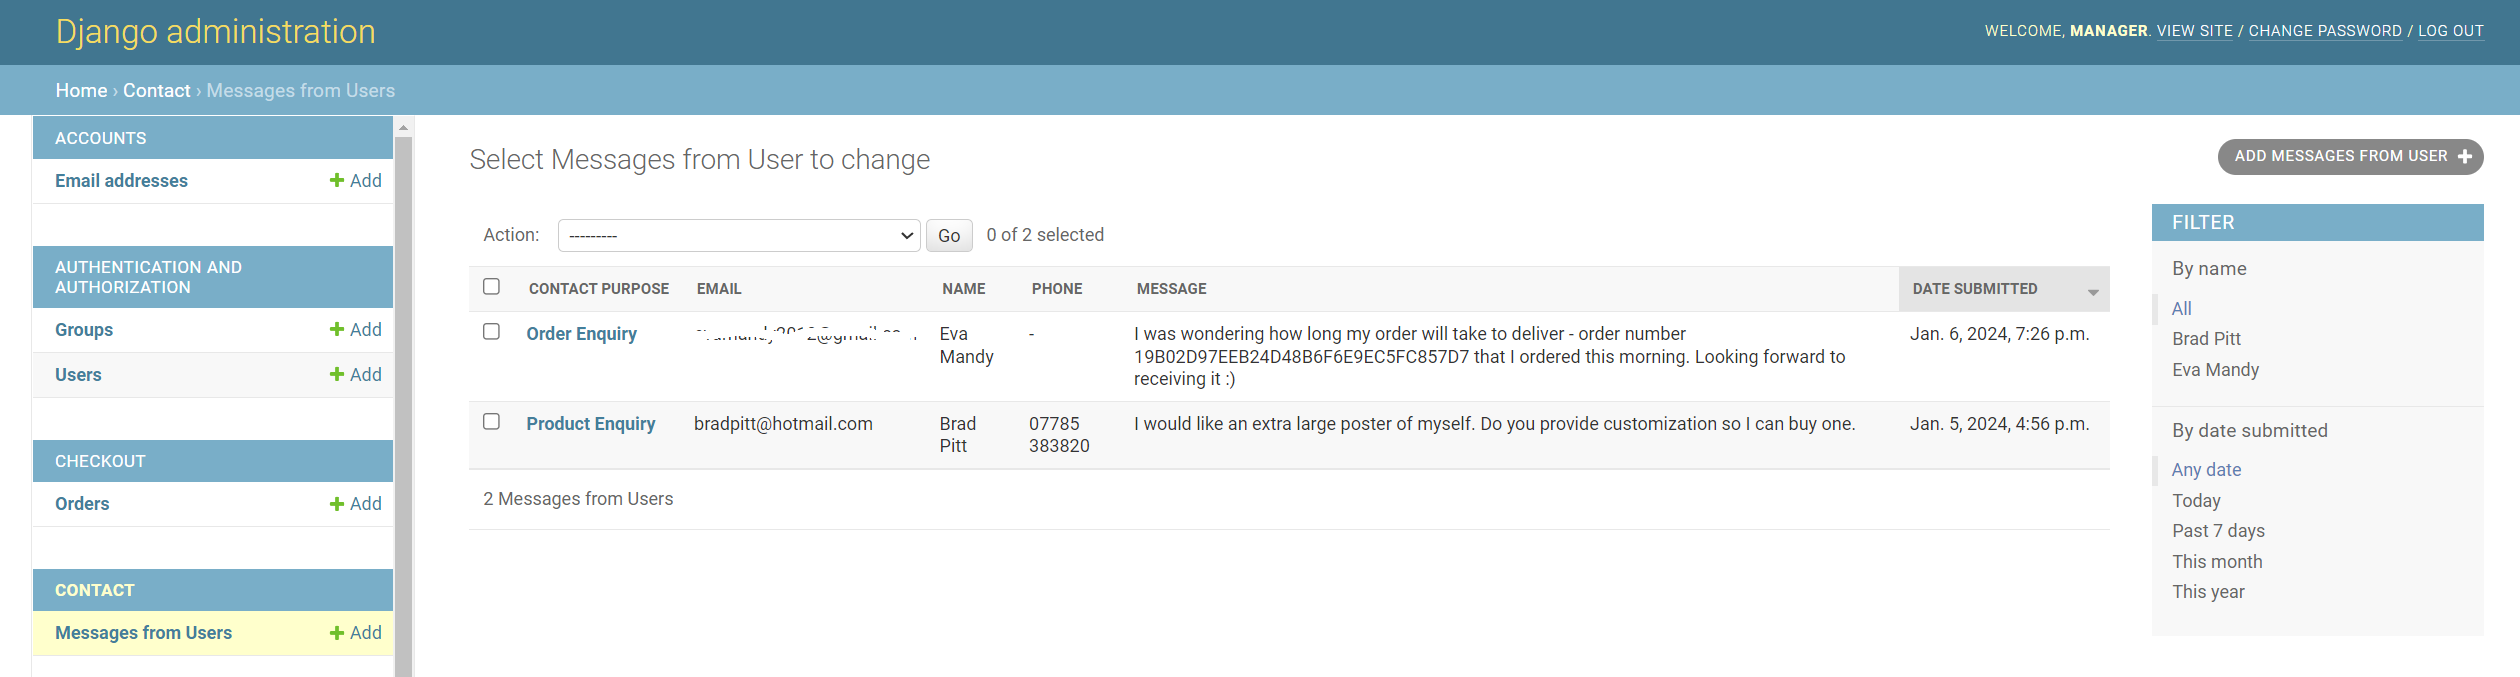
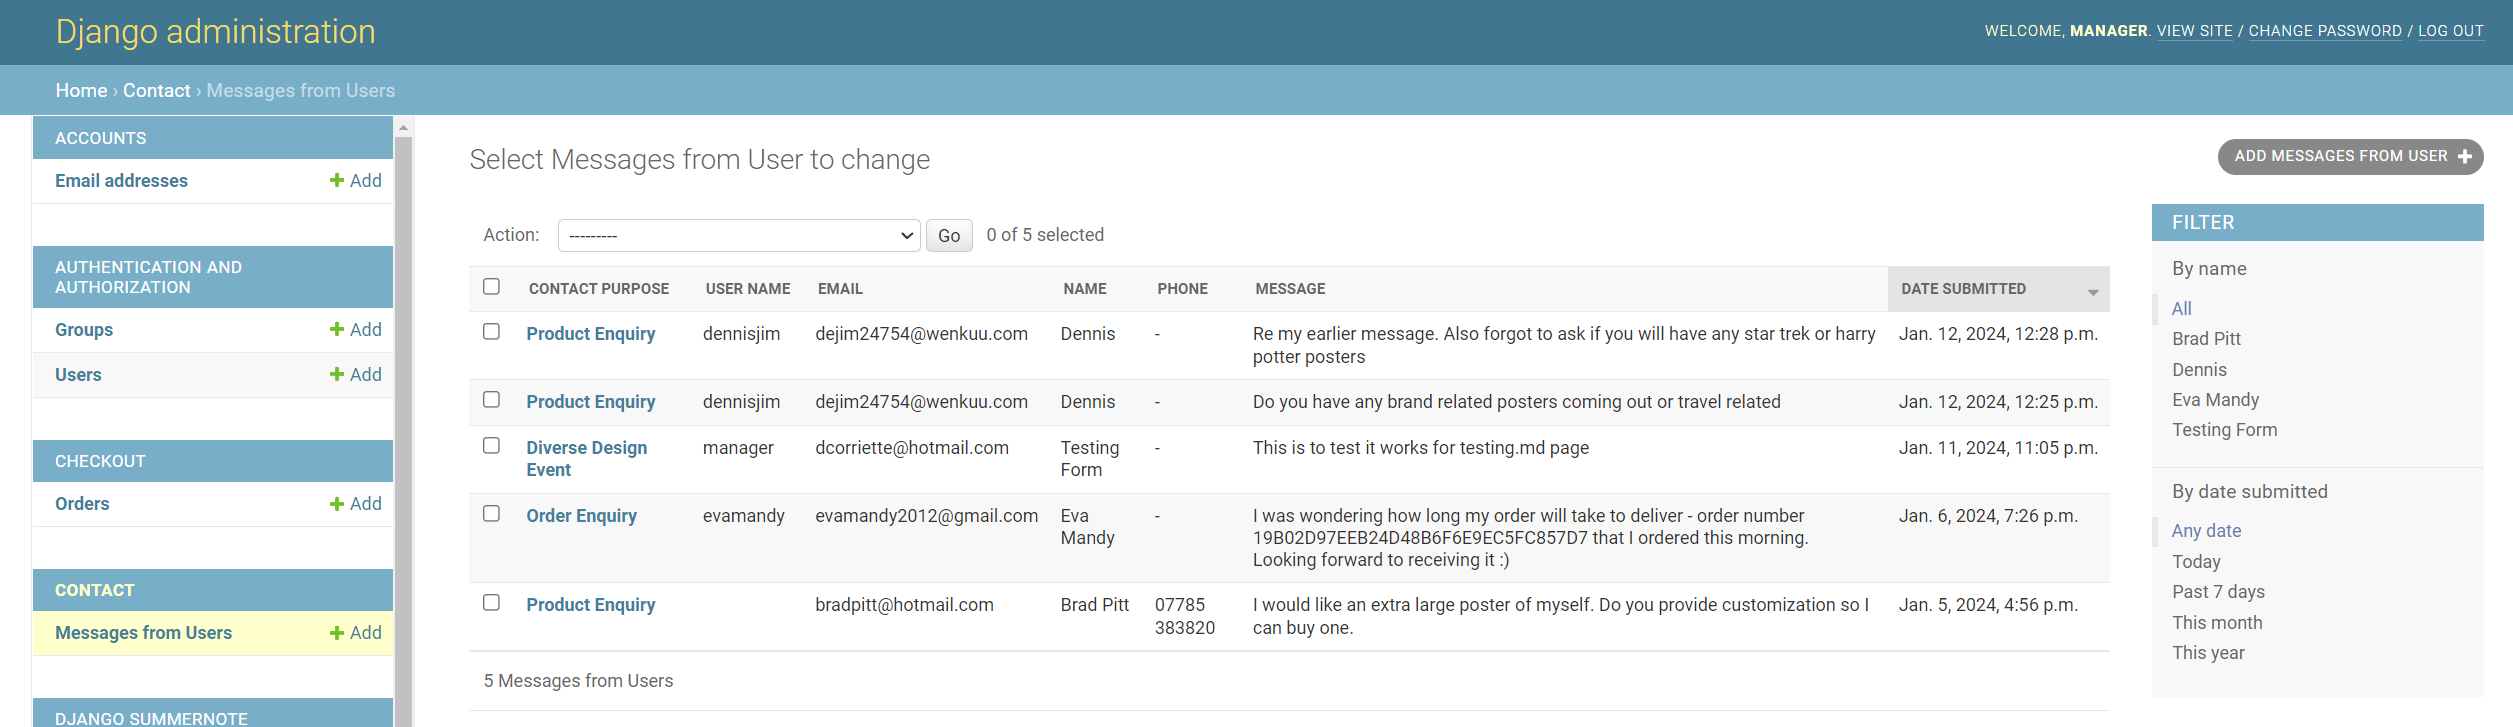
Update contact form so email and username appears in admin area and on thank you message for registered users. If user is not registered the username does not appear in thank you message. Update README

diff --git a/templates/allauth/account/logout.html b/templates/allauth/account/logout.html
@@ -6,18 +6,21 @@
 
 {% block inner_content %}
 
-<h2 class="logo-font mt-5 mb-4">{% trans "Log Out" %}</h2>
-<hr>
-<p>{% trans 'Are you sure you want to log out?' %}</p>
+<div class="overlay"></div>
+<div class="container-fluid mb-5">
 
-<form method="post" action="{% url 'account_logout' %}">
-  {% csrf_token %}
-  {% if redirect_field_value %}
-  <input type="hidden" name="{{ redirect_field_name }}" value="{{ redirect_field_value }}"/>
-  {% endif %}
-  <a class="btn btn-outline-black rounded-0" href="{% url 'home' %}">Cancel</a>
-  <button type="submit">{% trans 'Log Out' %}</button>
-</form>
+  <h2 class="logo-font mt-5 mb-3">{% trans "Log Out" %}</h2>
+  <hr>
+  <p>{% trans 'Are you sure you want to log out?' %}</p>
 
+  <form method="post" action="{% url 'account_logout' %}">
+    {% csrf_token %}
+    {% if redirect_field_value %}
+    <input type="hidden" name="{{ redirect_field_name }}" value="{{ redirect_field_value }}"/>
+    {% endif %}
+    <a class="btn btn-outline-black rounded-0" href="{% url 'home' %}">Cancel</a>
+    <button type="submit">{% trans 'Log Out' %}</button>
+  </form>
+</div>
 
 {% endblock %}

diff --git a/templates/base.html b/templates/base.html
@@ -1,5 +1,4 @@
 {% load static %}
-
 <!doctype html>
 <lang="en">
   <head>
@@ -30,7 +29,7 @@
     {% endblock %}
 
     {% block corejs %}
-        <script src="https://kit.fontawesome.com/e9c73d7092.js" crossorigin="anonymous"></script>
+        <script src="https://kit.fontawesome.com/cd7af72a7a.js" crossorigin="anonymous"></script>
         <script src="https://code.jquery.com/jquery-3.4.1.min.js" integrity="sha256-CSXorXvZcTkaix6Yvo6HppcZGetbYMGWSFlBw8HfCJo=" crossorigin="anonymous"></script>
         <script src="https://cdn.jsdelivr.net/npm/popper.js@1.16.0/dist/umd/popper.min.js" integrity="sha384-Q6E9RHvbIyZFJoft+2mJbHaEWldlvI9IOYy5n3zV9zzTtmI3UksdQRVvoxMfooAo" crossorigin="anonymous"></script>
         <script src="https://stackpath.bootstrapcdn.com/bootstrap/4.4.1/js/bootstrap.min.js" integrity="sha384-wfSDF2E50Y2D1uUdj0O3uMBJnjuUD4Ih7YwaYd1iqfktj0Uod8GCExl3Og8ifwB6" crossorigin="anonymous"></script>

diff --git a/contact/templates/contact/contact_success.html b/contact/templates/contact/contact_success.html
@@ -49,6 +49,18 @@
                         </div>
                     </div>
 
+                    {% if contact.user %}
+                    <!-- Display username only if the user is registered -->
+                        <div class="row">
+                            <div class="col-12 col-md-4">
+                                <p class="mb-0 text-black">Username:</p>
+                            </div>
+                            <div class="col-12 col-md-8 text-md-left">
+                                <p class="mb-0">{{ contact.user.username }}</p>
+                            </div>
+                        </div>
+                     {% endif %}
+
                     <div class="row">
                         <div class="col-12 col-md-4">
                             <p class="mb-0 text-black">Name:</p>

diff --git a/products/templates/products/includes/reviews.html b/products/templates/products/includes/reviews.html
@@ -1,7 +1,7 @@
 <!-- Adding Reviews content-->
 <div class="overlay"></div>
 <div class="container-fluid my-5 col-10">
-       <h2 class="fw-bolder fs-5 mb-4">Reviews</h2>
+       <h2 class="fw-bolder fs-5 mb-4">Reviews for {{ product.name }}</h2>
        
     {% if request.user.is_authenticated %}
         <form method="POST" action="{% url 'submit_review' product.id %}">
@@ -40,7 +40,6 @@
 <!-- displays reviews-->
 {% for review in reviews %}
 <div class="container-fluid my-5 col-10">
-    <h2 class="fw-bolder fs-5 mb-4">Customer Reviews for {{ product.name }}</h2>
     <div class="icontext w-100">
         <div class="text">
             <span class="date text-muted float-md-right">{{review.updated_at}}</span>

diff --git a/contact/forms.py b/contact/forms.py
@@ -1,12 +1,12 @@
 from django import forms
 from django.forms import ModelForm
-from .models import Contact
+from .models import Contact, User
 
 
 class ContactForm(ModelForm):
     class Meta:
         model = Contact
-        fields = "__all__"
+        fields = ["contact_purpose", "name", "email", "phone", "message"]
 
     def __init__(self, *args, **kwargs):
         user = kwargs.pop("user", None)
@@ -17,6 +17,12 @@ class ContactForm(ModelForm):
             # If user is logged in - email field is hidden
             self.fields["email"].required = False
             self.fields["email"].widget = forms.HiddenInput()
+            if "user" in self.fields:
+                self.fields["user"].required = False
+                self.fields["user"].widget = forms.HiddenInput()
+
+            # Set the user instance for saving later
+            self.instance.user = user
         else:
             # If the user is not logged in - email field required
             self.fields["email"].required = True

diff --git a/contact/migrations/0002_contact_user.py b/contact/migrations/0002_contact_user.py
@@ -1,0 +1,21 @@
+# Generated by Django 3.2.23 on 2024-01-12 12:17
+
+from django.conf import settings
+from django.db import migrations, models
+import django.db.models.deletion
+
+
+class Migration(migrations.Migration):
+
+    dependencies = [
+        migrations.swappable_dependency(settings.AUTH_USER_MODEL),
+        ('contact', '0001_initial'),
+    ]
+
+    operations = [
+        migrations.AddField(
+            model_name='contact',
+            name='user',
+            field=models.ForeignKey(blank=True, null=True, on_delete=django.db.models.deletion.SET_NULL, to=settings.AUTH_USER_MODEL),
+        ),
+    ]

diff --git a/contact/admin.py b/contact/admin.py
@@ -1,11 +1,11 @@
 from django.contrib import admin
 from .models import Contact
 
-
 @admin.register(Contact)
 class ContactAdmin(admin.ModelAdmin):
     list_display = [
         "contact_purpose",
+        "get_user_name",
         "email",
         "name",
         "phone",
@@ -13,3 +13,8 @@ class ContactAdmin(admin.ModelAdmin):
         "date_submitted",
     ]
     list_filter = ["name", "date_submitted"]
+
+    def get_user_name(self, obj):
+        return obj.user.username if obj.user else ""  # Display username if user exists
+
+    get_user_name.short_description = "User Name"  

diff --git a/contact/models.py b/contact/models.py
@@ -1,4 +1,5 @@
 from django.db import models
+from django.contrib.auth.models import User
 
 
 class Contact(models.Model):
@@ -15,6 +16,7 @@ class Contact(models.Model):
         ("Other", "Other"),
     ]
     contact_purpose = models.CharField(max_length=24, choices=CONTACT_CHOICES)
+    user = models.ForeignKey(User, on_delete=models.SET_NULL, null=True, blank=True)
     email = models.EmailField()
     name = models.CharField(max_length=44)
     phone = models.CharField(max_length=20, blank=True, null=True)

diff --git a/TESTING.md b/TESTING.md
@@ -203,8 +203,8 @@ I went through the customer journey procedure myself and three other people test
 | :-: | :----------------------------------: | :---------------------------------------------------------------------------------------------------------------------------------------------------------------------- | :-----------------|
 | 01  |   User taken to contact us page via footer link  |                            Footer links work | Pass    |
 | 02  |   User must select reason for contact    |                 Message shown if not selected                   | Pass    |
-| 03  |   Email not required if registered          |      Email shows in confirmation message | Pass    |
-| 04  |   Thank you message       |    Thank you message appears after sending form | Pass    |
+| 03  |   Email or username automatically added if registered          |      Email and user name added in Admin area | Pass    |
+| 04  |   Thank you message       |    Thank you message appears after sending form. If user is registered their username and email appears in thank you message. If the user is not registered the username does not appear. | Pass    |
 | 05  |   Offer button on page      |    User taken to clearance and deals categories                                | Pass    |
 
 
@@ -278,7 +278,7 @@ The eCommerce store looks and functions as intended on different browsers.
 | 1700 px Desktop | <img src="readme/testing/rm-screen-1700.png" alt="Laptop" width="70%">  |
 | Laptop  |  <img src="readme/testing/rm-screen-1280.png" alt="Laptop" width="70%">   |
 | iPad Air - Tablet |  <img src="readme/testing/rm-screen-ipad-air.png" alt="iPad" width="70%">   |
-| Mobile - Pixel 7  |  <img src="readme/testing/rm-screen-pixel7.png" alt="Mobile" width="70%">  |
+| Mobile - Pixel 7  |  <img src="readme/testing/rm-screen-pixel7.png" alt="Mobile" width="50%">  |
 
 ## Code Validation
 

diff --git a/README.md b/README.md
@@ -938,9 +938,13 @@ An unregistered user will include their email address
 
 <img src="readme/images/rm-contact-us-unregistered.png" width="90%"><br><br>
 
-After sending the message a receipt of the message they sent appears on the screen and an invitation to visit the latest offers page.
+After sending the message a receipt of the message they sent appears on the screen and an invitation to visit the latest offers page. This is the page if they are a non-registerd user.
 
 <img src="readme/images/rm-contact-us-success.png" width="90%"><br><br>
+
+This is the page if they are a registered user.
+
+<img src="readme/images/rm-contact-us-success-registered-user.png" width="90%"><br><br>
 
 Below the contact form are a few frequently asked questions
 
